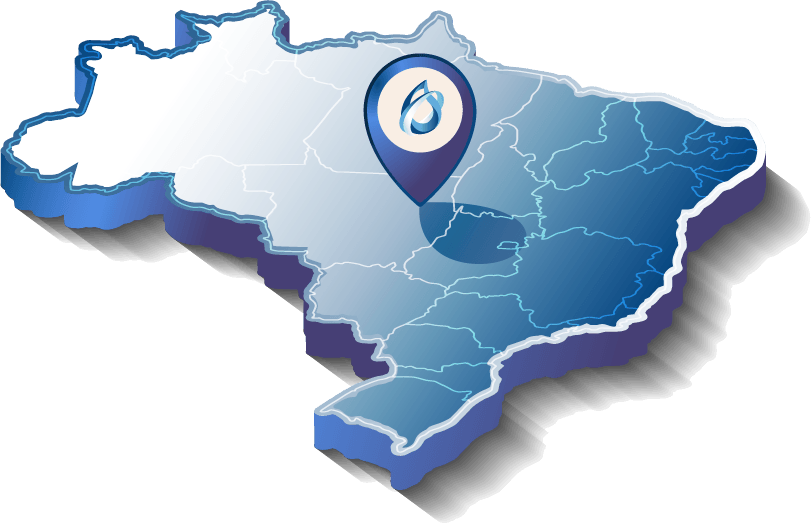
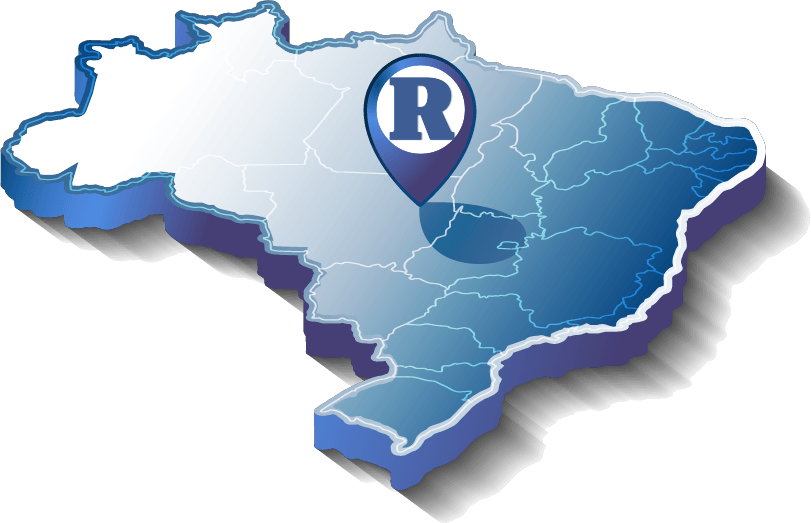
Update application files

Changed region(s): [[0.4624, 0.1224, 0.5857, 0.3059]]

diff --git a/routes_login.html b/routes_login.html
@@ -3,7 +3,7 @@
 <head>
 <meta charset="UTF-8"/>
 <meta name="viewport" content="width=device-width, initial-scale=1.0, maximum-scale=1.0, user-scalable=no, viewport-fit=cover"/>
-<title>Routes — Login</title>
+<title>ROUTES — Login</title>
 <link rel="stylesheet" href="login.css?v=3"/>
 </head>
 <body>
@@ -64,12 +64,12 @@
         </svg>
       </div>
       <div class="panel-text">
-        <div class="panel-title">Bem-vindo ao<br><span>Routes.</span></div>
+        <div class="panel-title">Bem-vindo ao<br><span>ROUTES.</span></div>
         <div class="panel-desc">Planeje e otimize rotas para sua equipe técnica com integração Google Maps.</div>
         <div class="panel-badges">
           <span class="pbadge">Rotas Automáticas</span>
-          <span class="pbadge">Google Maps</span>
-          <span class="pbadge">Prodesivo</span>
+          <span class="pbadge">Painel de Frotas</span>
+          <span class="pbadge">Otimizador de Rotas</span>
         </div>
       </div>
     </div>
@@ -79,7 +79,7 @@
         <div class="form-head">
           <div class="form-eyebrow" id="formLabel">Acesso à plataforma</div>
           <div class="form-title" id="formTitle">Entrar na conta</div>
-          <div class="form-sub" id="formSub">Use suas credenciais Prodesivo para acessar</div>
+          <div class="form-sub" id="formSub">Use suas credenciais para acessar</div>
         </div>
 
         <!-- Nome (visível apenas no cadastro) -->
@@ -95,7 +95,7 @@
           <label class="field-label">E-mail</label>
           <div class="field-wrap">
             <span class="field-icon">✉</span>
-            <input class="field-input" id="emailinput" type="email" placeholder="[email redacted]"/>
+            <input class="field-input" id="emailinput" type="email" placeholder="[email redacted]"/>
           </div>
         </div>
         <div class="field">

diff --git a/app.html b/app.html
@@ -3,7 +3,7 @@
 <head>
 <meta charset="UTF-8"/>
 <meta name="viewport" content="width=device-width, initial-scale=1.0, maximum-scale=1.0, user-scalable=no, viewport-fit=cover"/>
-<title>Routes — Prodesivo</title>
+<title>ROUTES</title>
 <link rel="stylesheet" href="app.css?v=6"/>
 <link rel="stylesheet" href="auto-route.css?v=2"/>
 <link rel="stylesheet" href="https://unpkg.com/leaflet@1.9.4/dist/leaflet.css" />
@@ -65,7 +65,6 @@
         <div style="display:flex; align-items:center; gap:6px;">
           <span class="nav-title">ROUTES</span>
         </div>
-        <span class="nav-subtitle" id="navCompanyName">Prodesivo</span>
       </div>
     </div>
     <div class="nav-right">
@@ -279,7 +278,7 @@
           stroke="#0D487B" stroke-width="4" fill="none" stroke-linecap="round" stroke-linejoin="round" stroke-dasharray="10,4" opacity=".9"/>
         <circle cx="90"  cy="370" r="15" fill="#0D487B"/>
         <circle cx="90"  cy="370" r="7" fill="#fff"/>
-        <text x="90"  y="405" text-anchor="middle" font-size="14" fill="#0D487B" font-weight="900" font-family="sans-serif">Prodesivo</text>
+        <text x="90"  y="405" text-anchor="middle" font-size="14" fill="#0D487B" font-weight="900" font-family="sans-serif">ROUTES</text>
         <circle cx="335" cy="160" r="10" fill="#1A6BAF"/>
         <circle cx="335" cy="160" r="4"  fill="#fff"/>
         <text x="335" y="149" text-anchor="middle" font-size="9" fill="#1A6BAF" font-weight="700" font-family="sans-serif">P2</text>
@@ -1593,7 +1592,7 @@
       <div id="profileLogoWrap" style="width: 60px; height: 60px; border-radius: 12px; margin: 0 auto 12px; overflow: hidden; border: 2px solid rgba(255,255,255,0.2); background: #fff;">
         <img src="novo_logo_app.png" style="width:100%; height:100%; object-fit:contain;" onerror="this.style.display='none'">
       </div>
-      <div id="profileCompanyName" style="color: #fff; font-size: 16px; font-weight: 800; margin-bottom: 4px;">Prodesivo</div>
+      <div id="profileCompanyName" style="color: #fff; font-size: 16px; font-weight: 800; margin-bottom: 4px;">ROUTES</div>
       <div style="display:inline-block; font-size:9px; font-weight:700; background:rgba(255,255,255,0.15); padding:3px 8px; border-radius:10px; color:#fff; margin-bottom: 10px;" id="profileAdminBadge">ADMINISTRADOR</div>
       <div id="profileEmailDisplay" style="color: rgba(255,255,255,0.8); font-size: 11px; font-weight: 500;">[email redacted]</div>
       <button onclick="window.closeProfileModal()" style="position: absolute; top: 15px; right: 15px; background: rgba(255,255,255,0.1); border: none; color: #fff; width: 24px; height: 24px; border-radius: 50%; cursor: pointer; display: flex; align-items: center; justify-content: center; font-size: 14px;">✕</button>

diff --git a/app.js b/app.js
@@ -566,7 +566,8 @@ async function applyRoleUI() {
     if (window.companyId) {
       const snap = await getDoc(doc(db, 'companies', window.companyId));
       if (snap.exists()) {
-        const nome = snap.data().name || snap.data().nome || 'Prodesivo';
+        let nome = snap.data().name || snap.data().nome || 'ROUTES';
+        if (nome === 'Prodesivo') nome = 'ROUTES';
         const navCompanyName = document.getElementById('navCompanyName');
         const profileCompanyName = document.getElementById('profileCompanyName');
         if (navCompanyName) navCompanyName.textContent = nome;

diff --git a/index.html b/index.html
@@ -3,7 +3,7 @@
 <head>
   <meta charset="UTF-8"/>
   <meta http-equiv="refresh" content="0;url=routes_login.html"/>
-  <title>Routes — Prodesivo</title>
+  <title>ROUTES</title>
 </head>
 <body>
   <p>Redirecionando...</p>